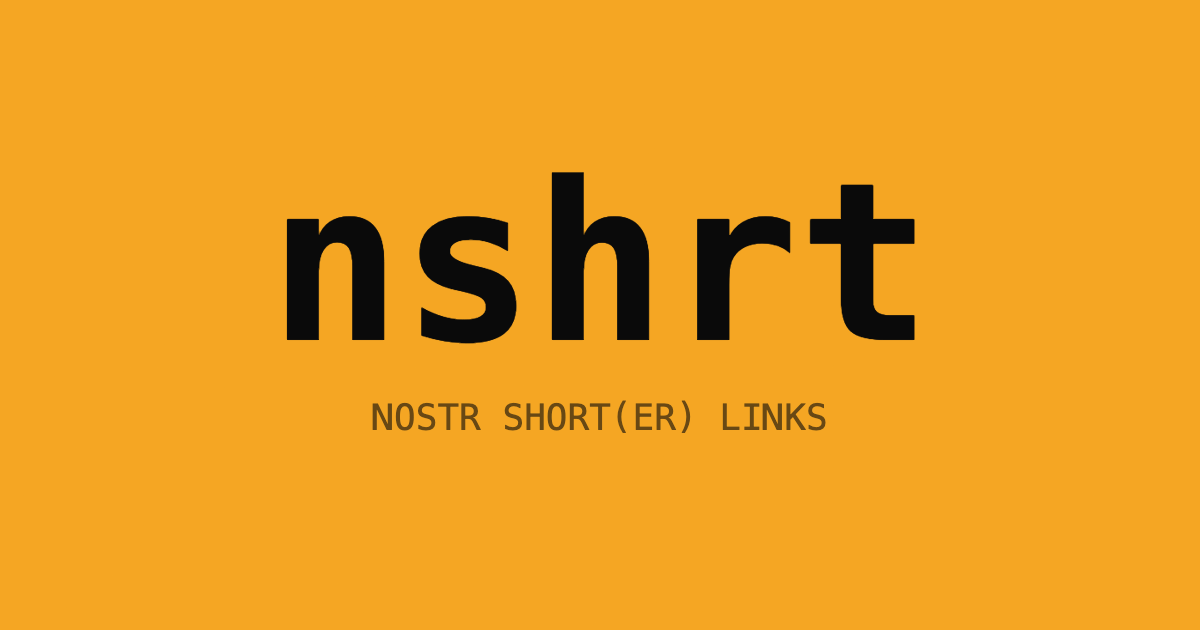
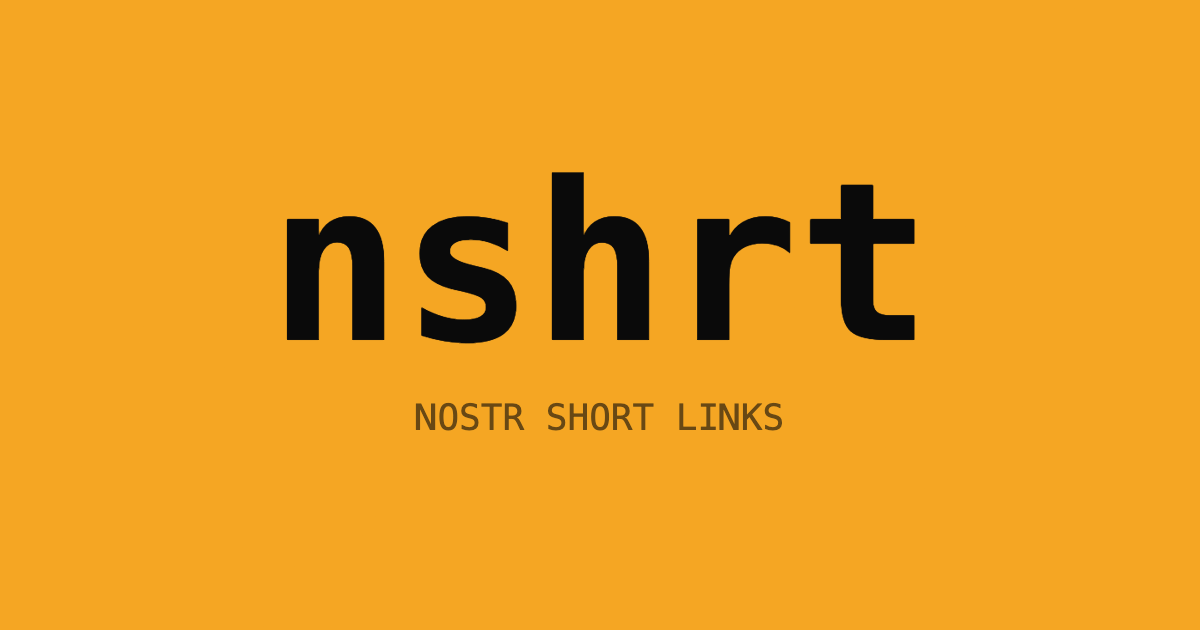
Change description

Changed region(s): [[0.3083, 0.6333, 0.7092, 0.6937]]

diff --git a/index.html b/index.html
@@ -3,20 +3,20 @@
   <head>
     <meta charset="UTF-8" />
     <meta name="viewport" content="width=device-width, initial-scale=1.0" />
-    <title>nshrt — Nostr Short(er) Links</title>
+    <title>nshrt — Nostr Short Links</title>
     <meta name="description" content="Deterministic, serverless short links for Nostr identifiers. No database, no server — the short code is the data." />
     <link rel="canonical" href="https://njmp.to" />
 
     <!-- Open Graph -->
     <meta property="og:type" content="website" />
     <meta property="og:url" content="https://njmp.to" />
-    <meta property="og:title" content="nshrt — Nostr Short(er) Links" />
+    <meta property="og:title" content="nshrt — Nostr Short Links" />
     <meta property="og:description" content="Deterministic, serverless short links for Nostr identifiers. No database, no server — the short code is the data." />
     <meta property="og:image" content="https://njmp.to/og-image.png" />
 
     <!-- Twitter -->
     <meta name="twitter:card" content="summary_large_image" />
-    <meta name="twitter:title" content="nshrt — Nostr Short(er) Links" />
+    <meta name="twitter:title" content="nshrt — Nostr Short Links" />
     <meta name="twitter:description" content="Deterministic, serverless short links for Nostr identifiers. No database, no server — the short code is the data." />
     <meta name="twitter:image" content="https://njmp.to/og-image.png" />
 
